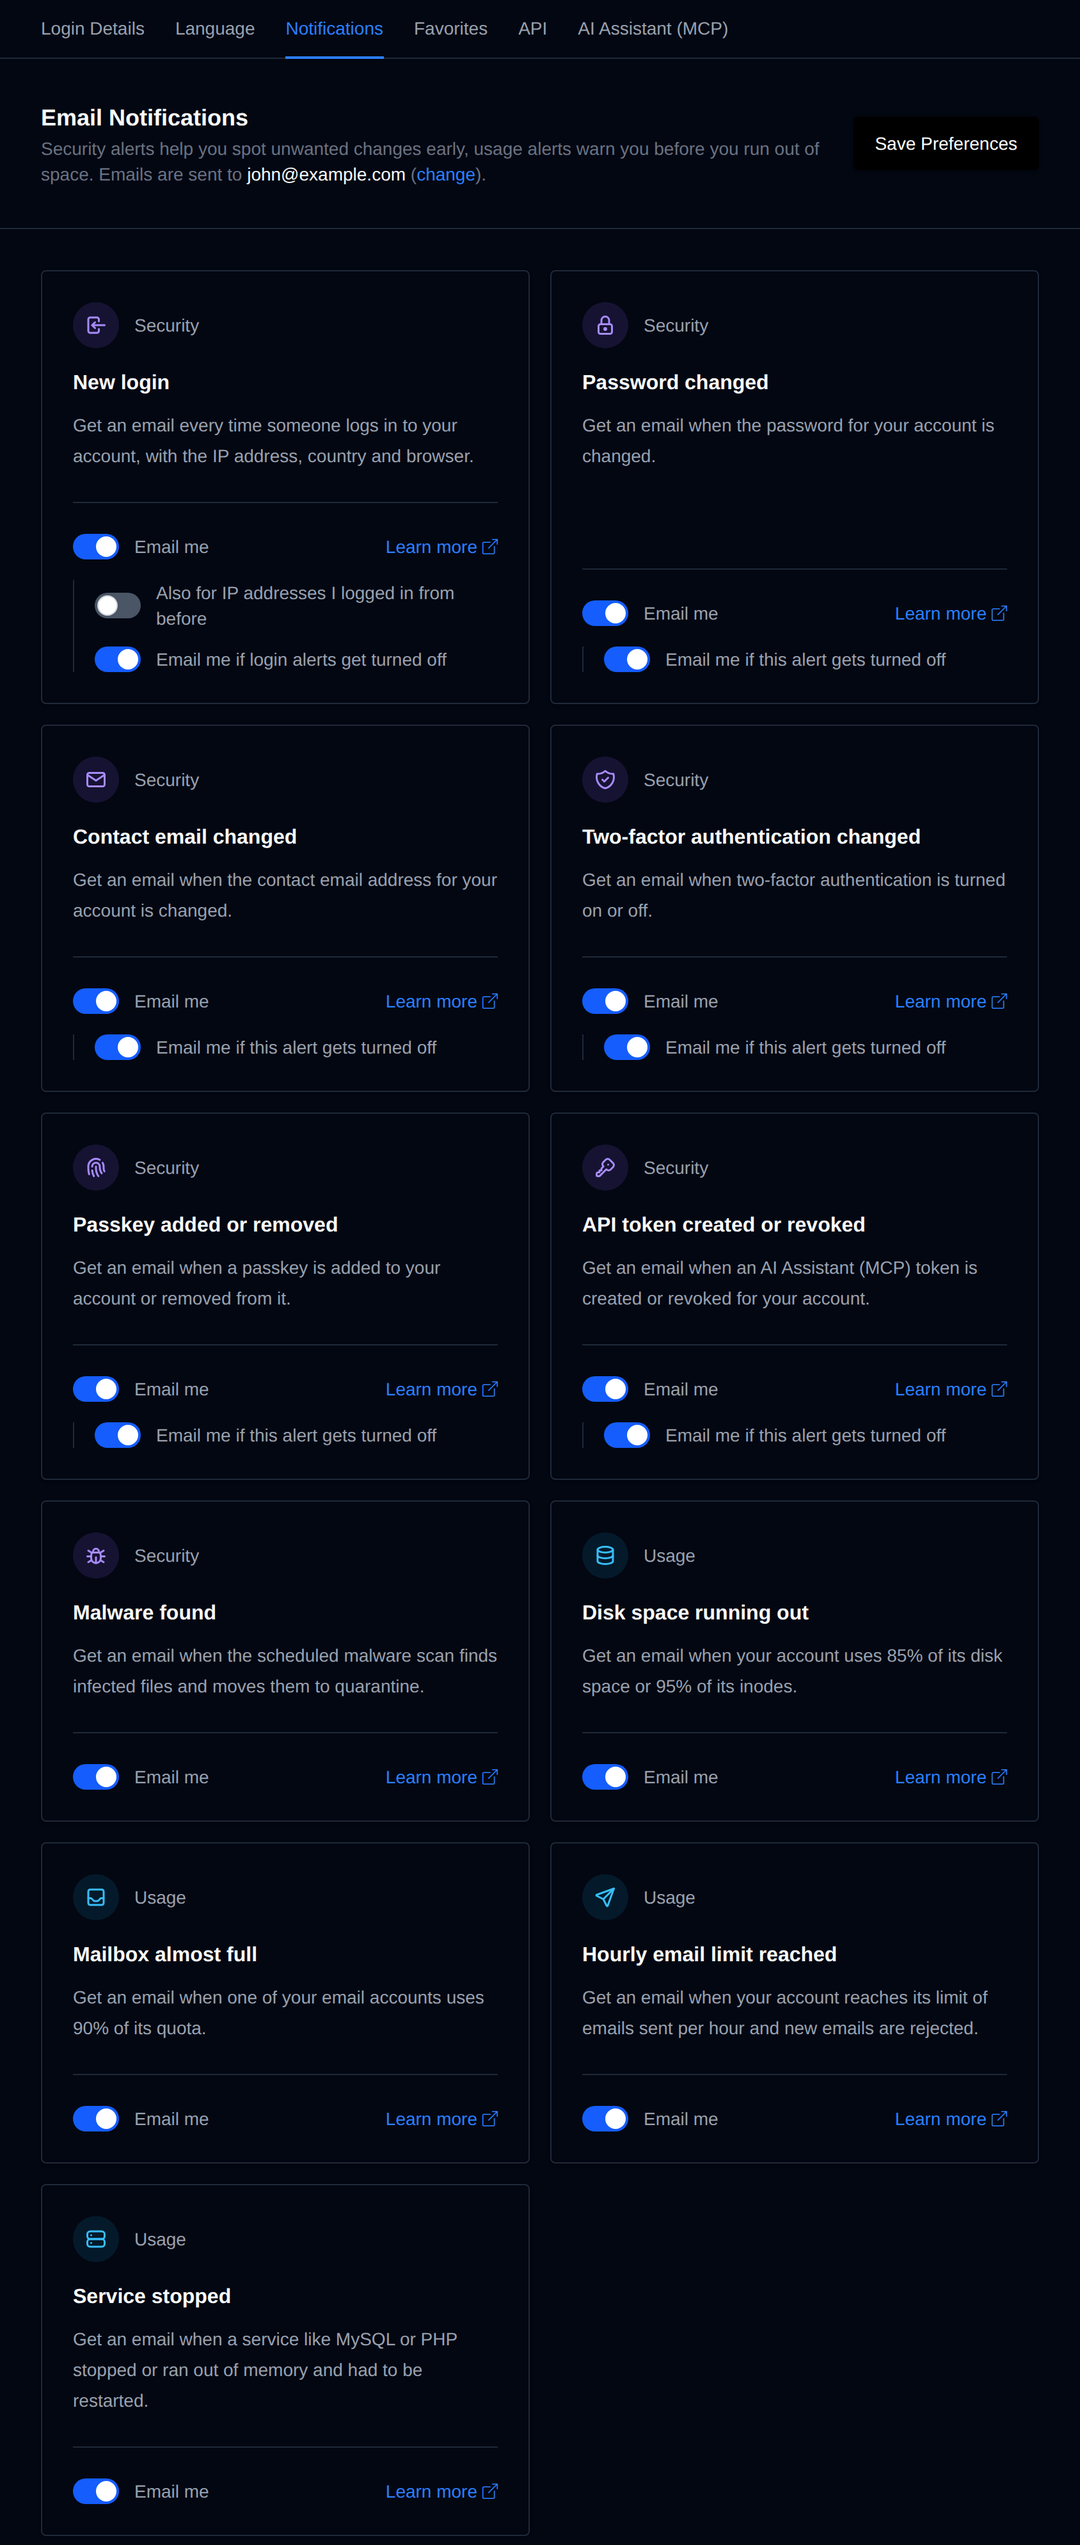
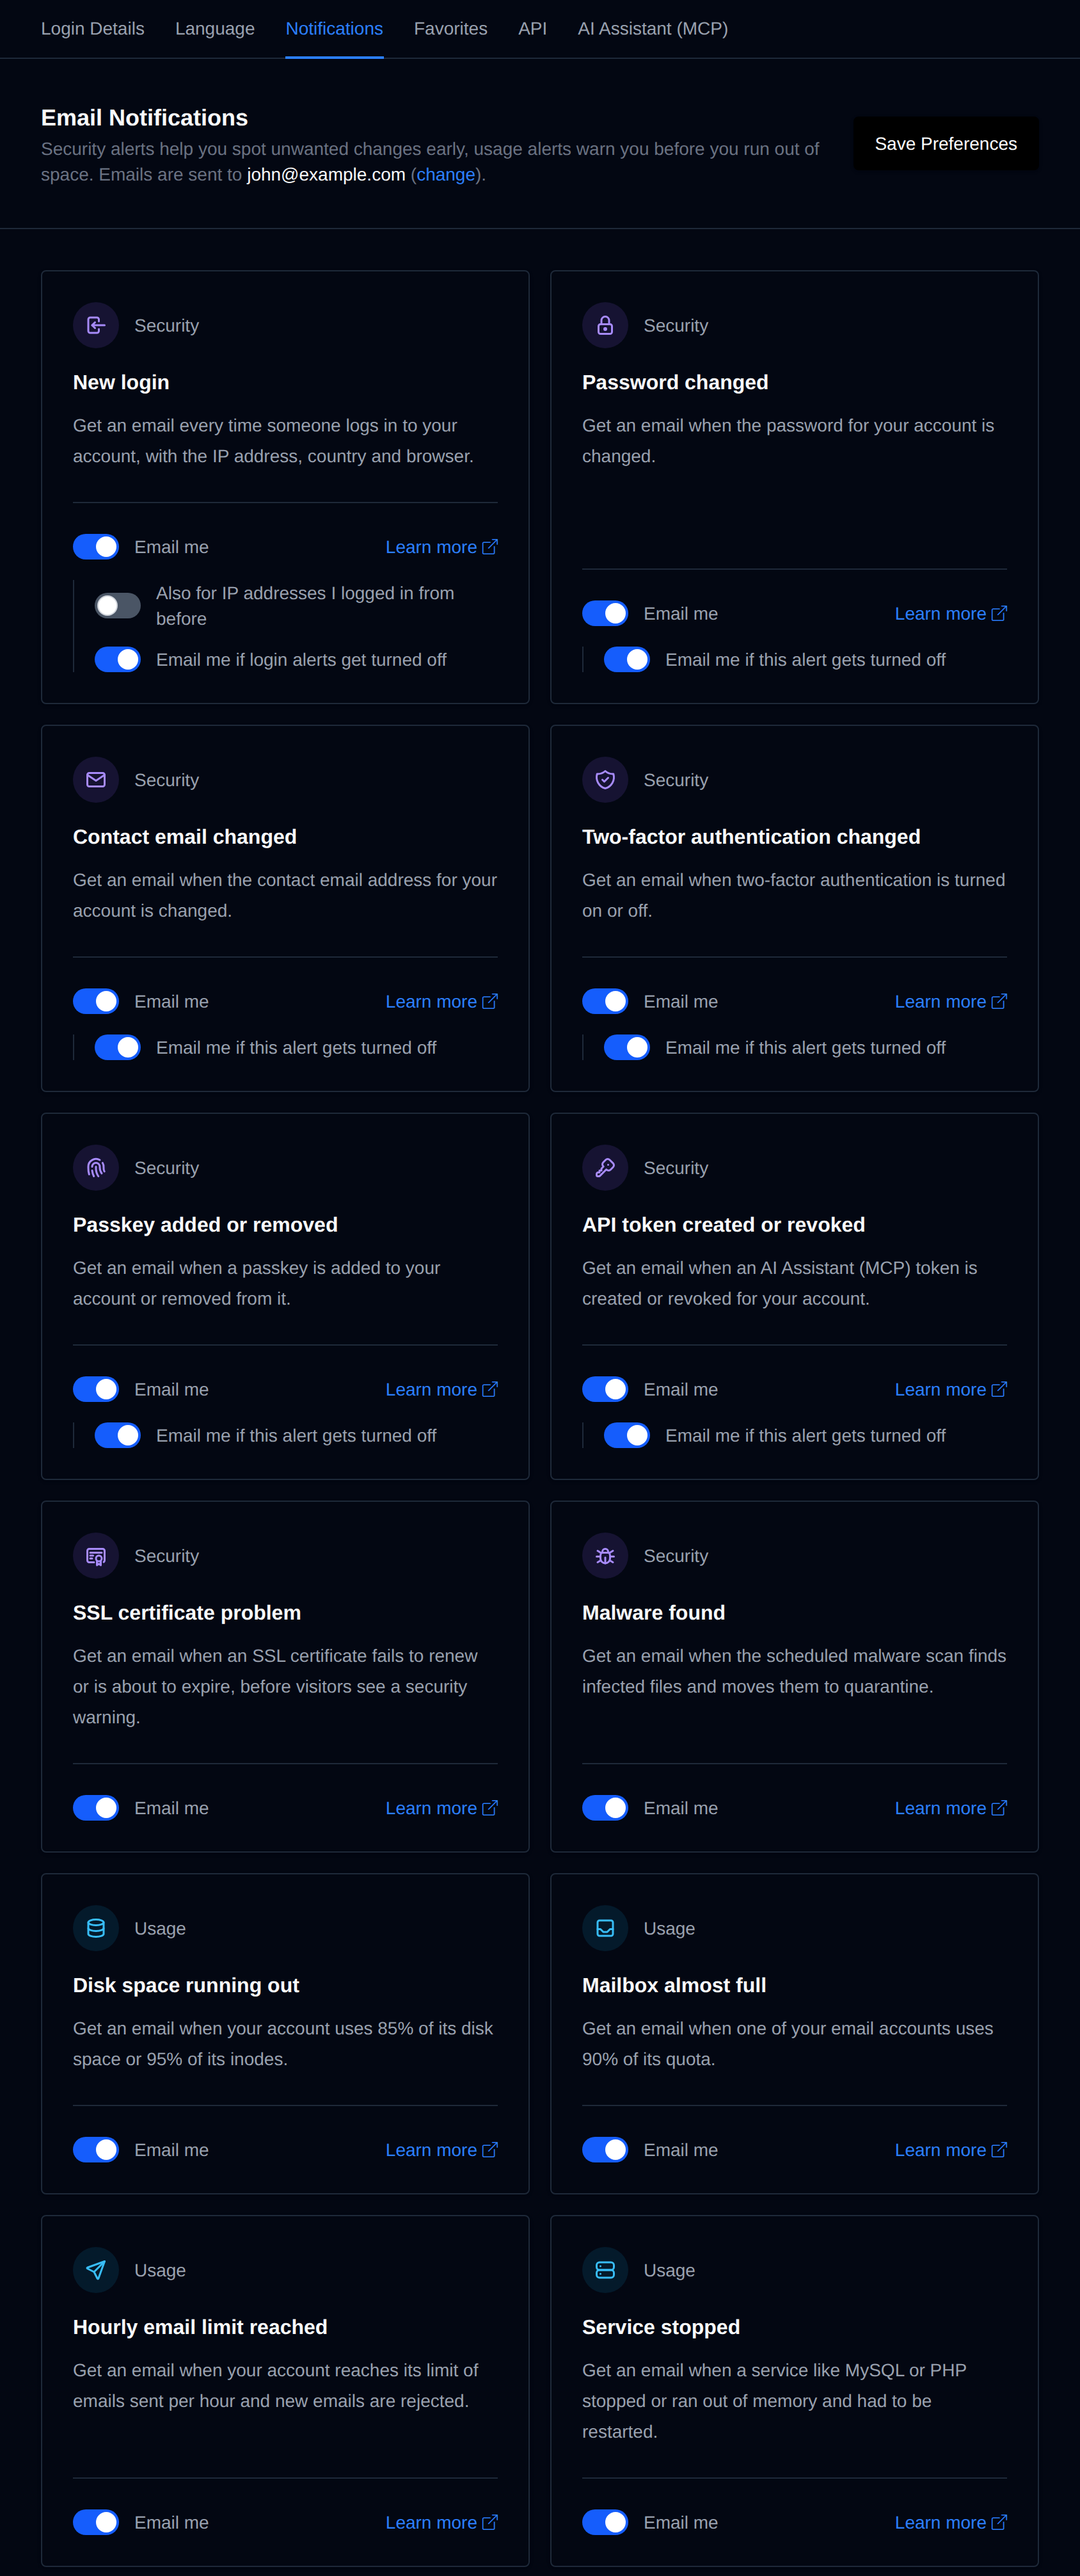
autoscale limits on install and notify_ssl_expiry wired

diff --git a/openpanel/internal/web/templates/user/notifications.html b/openpanel/internal/web/templates/user/notifications.html
@@ -23,6 +23,8 @@
 <svg xmlns="http://www.w3.org/2000/svg" width="18" height="18" viewBox="0 0 24 24" fill="none" stroke="currentColor" stroke-width="2" stroke-linecap="round" stroke-linejoin="round" aria-hidden="true"><path d="M10 14l11 -11"/><path d="M21 3l-6.5 18a.55 .55 0 0 1 -1 0l-3.5 -7l-7 -3.5a.55 .55 0 0 1 0 -1l18 -6.5"/></svg>
 {{- else if eq .Key "notify_service_failed"}}
 <svg xmlns="http://www.w3.org/2000/svg" width="18" height="18" viewBox="0 0 24 24" fill="none" stroke="currentColor" stroke-width="2" stroke-linecap="round" stroke-linejoin="round" aria-hidden="true"><path d="M3 7a3 3 0 0 1 3 -3h12a3 3 0 0 1 3 3v2a3 3 0 0 1 -3 3h-12a3 3 0 0 1 -3 -3z"/><path d="M3 15a3 3 0 0 1 3 -3h12a3 3 0 0 1 3 3v2a3 3 0 0 1 -3 3h-12a3 3 0 0 1 -3 -3z"/><path d="M7 8l0 .01"/><path d="M7 16l0 .01"/></svg>
+{{- else if eq .Key "notify_ssl_expiry"}}
+<svg xmlns="http://www.w3.org/2000/svg" width="18" height="18" viewBox="0 0 24 24" fill="none" stroke="currentColor" stroke-width="2" stroke-linecap="round" stroke-linejoin="round" aria-hidden="true"><path d="M15 15m-3 0a3 3 0 1 0 6 0a3 3 0 1 0 -6 0"/><path d="M13 17.5v4.5l2 -1.5l2 1.5v-4.5"/><path d="M10 19h-5a2 2 0 0 1 -2 -2v-10c0 -1.1 .9 -2 2 -2h14a2 2 0 0 1 2 2v10a2 2 0 0 1 -1 1.73"/><path d="M6 9l12 0"/><path d="M6 12l3 0"/><path d="M6 15l2 0"/></svg>
 {{- end}}
 {{end}}
 

diff --git a/website/scripts/panel-screenshots/emails/render.go b/website/scripts/panel-screenshots/emails/render.go
@@ -88,6 +88,9 @@ func emails() []email {
 			tips:        "To free up space, delete old emails and empty the Trash and Spam folders in webmail, or raise the mailbox quota on the Email Accounts page in OpenPanel.",
 			usage:       []usage{{Title: "info@example.com", Used: "920M", Total: "1G", Percent: 92, Limit: 90}, {Title: "sales@example.com", Used: "2G", Total: "2G", Percent: 100, Limit: 90}},
 			upgradePlan: "Business", upgradeText: "The Business plan lets you set mailboxes up to 5 GB instead of 2 GB. After upgrading, raise the quota on the Email Accounts page."},
+		{name: "ssl", subject: "SSL certificate problem on account john",
+			body: "These SSL certificates on account john need attention, without a valid certificate visitors see a security warning instead of the website:\n\n- blog.example.com: the AutoSSL certificate expires on 2026-10-02 06:00 UTC (6 day(s) left). It should have been renewed automatically, so renewal is failing. Last error: HTTP 403 urn:ietf:params:acme:error:unauthorized - Invalid response from http://blog.example.com/.well-known/acme-challenge/x: 404\n- shop.example.com: the custom certificate expires on 2026-09-26 12:00 UTC (less than a day left).\n\nChecked: 2026-09-25 06:15:02 UTC",
+			tips: "For AutoSSL, make sure the domain's A and AAAA records point to this server, no CAA record blocks Let's Encrypt, and no proxy or firewall blocks /.well-known/acme-challenge/. For a custom certificate, upload a renewed one on the Domains > SSL Certificates page in OpenPanel, or switch the domain to AutoSSL to get free certificates that renew on their own."},
 		{name: "malware", subject: "Malware found on account john",
 			body: "The scheduled malware scan found 2 infected file(s) on account john and moved them to quarantine, so they can't run or be downloaded anymore.\n\nQuarantined files:\n- /var/www/html/blog.example.com/wp-content/uploads/2026/09/cache.php (Php.Webshell.Generic)\n- /var/www/html/blog.example.com/wp-includes/js/jquery/ui/core.min.js (Js.Trojan.Redirect)\n\nScanned: 2026-09-27 00:12:40 UTC",
 			tips: "Review the files on the Malware Scanner > Quarantine page in OpenPanel: delete them, or restore a file if it's a false positive. Malware usually gets in through outdated plugins, themes or stolen passwords, so update your websites and change your FTP and admin passwords."},

diff --git a/openpanel/internal/modules/account/notifications.go b/openpanel/internal/modules/account/notifications.go
@@ -43,6 +43,7 @@ var notificationDefs = []notificationDef{
 	{Key: "notify_passkey_change_notification_disabled", Default: "1", Title: "Email me if this alert gets turned off", Parent: "notify_passkey_change"},
 	{Key: "notify_api_token_change", Default: "1", Title: "API token created or revoked", Description: "Get an email when an AI Assistant (MCP) token is created or revoked for your account.", Group: "Security", Anchor: "api-token-created-or-revoked"},
 	{Key: "notify_api_token_change_notification_disabled", Default: "1", Title: "Email me if this alert gets turned off", Parent: "notify_api_token_change"},
+	{Key: "notify_ssl_expiry", Default: "1", Title: "SSL certificate problem", Description: "Get an email when an SSL certificate fails to renew or is about to expire, before visitors see a security warning.", Group: "Security", Anchor: "ssl-certificate-problem"},
 	{Key: "notify_malware_found", Default: "1", Title: "Malware found", Description: "Get an email when the scheduled malware scan finds infected files and moves them to quarantine.", Group: "Security", Anchor: "malware-found"},
 	{Key: "notify_disk_limit", Default: "1", Title: "Disk space running out", Description: "Get an email when your account uses 85% of its disk space or 95% of its inodes.", Group: "Usage", Anchor: "disk-space-running-out"},
 	{Key: "notify_email_quota_limit", Default: "1", Title: "Mailbox almost full", Description: "Get an email when one of your email accounts uses 90% of its quota.", Group: "Usage", Anchor: "mailbox-almost-full"},

diff --git a/openpanel/internal/modules/account/notifications_test.go b/openpanel/internal/modules/account/notifications_test.go
@@ -5,8 +5,8 @@ import "testing"
 func TestBuildNotificationCards(t *testing.T) {
 	prefs := []NotificationPref{{Key: "notify_account_login", Value: "1"}, {Key: "notify_account_login_for_known_netblock", Value: "0"}}
 	cards := buildNotificationCards(prefs)
-	if len(cards) != 11 {
-		t.Fatalf("got %d cards, want 11", len(cards))
+	if len(cards) != 12 {
+		t.Fatalf("got %d cards, want 12", len(cards))
 	}
 	if !cards[0].On || len(cards[0].Subs) != 2 || cards[0].Subs[0].On {
 		t.Errorf("login card wrong: %+v", cards[0])
@@ -17,7 +17,7 @@ func TestBuildNotificationCards(t *testing.T) {
 }
 
 func TestNotificationDefault(t *testing.T) {
-	cases := map[string]int{"notify_account_login": 1, "notify_account_login_for_known_netblock": 0, "notify_username_change": 1, "notify_ssl_expiry": 0}
+	cases := map[string]int{"notify_account_login": 1, "notify_account_login_for_known_netblock": 0, "notify_username_change": 1, "notify_autossl_expiry": 0}
 	for key, want := range cases {
 		if got := notificationDefault(key); got != want {
 			t.Errorf("%s: got %d want %d", key, got, want)

diff --git a/website/docs/panel/account/notifications.md b/website/docs/panel/account/notifications.md
@@ -19,7 +19,7 @@ Changes made through the [OpenPanel API](/docs/panel/api/) do send the same emai
 
 ## Security alerts
 
-Every security email shows when the change was made, the IP address, the country with its flag, the browser and operating system, and what to do if it wasn't you.
+Emails about changes to the account (logins, password, email address, 2FA, passkeys and API tokens) show when the change was made, the IP address, the country with its flag, the browser and operating system, and what to do if it wasn't you.
 
 ### New login
 
@@ -94,6 +94,19 @@ Sends an email when a token for the [AI Assistant (MCP)](/docs/panel/account/mcp
 
 ![New API token email with the token name Claude Desktop, read-only access that expires in 30 days, the time, IP address, country and browser](/img/openpanel-screenshots/account/notifications-email-api-token.png)
 
+### SSL certificate problem
+
+Checks the SSL certificate of every domain that points to this server once a day, and sends an email when:
+- an AutoSSL certificate has 7 days or less left. AutoSSL certificates are renewed about 30 days before they expire, so this means renewal is failing. The email includes the last error from the web server, for example a DNS record pointing elsewhere.
+- any certificate, AutoSSL or custom, has 1 day or less left.
+
+Each alert is sent once per certificate, and all affected domains of the account are listed in one email. Domains that don't point to this server are skipped.
+
+![SSL certificate problem card with the Email me switch and a Learn more link](/img/openpanel-screenshots/account/notifications-ssl.png#gh-light-mode-only)
+![SSL certificate problem card with the Email me switch and a Learn more link](/img/openpanel-screenshots/account/notifications-ssl_dark.png#gh-dark-mode-only)
+
+![SSL certificate problem email listing an AutoSSL certificate that fails to renew with the error, and a custom certificate that expires in less than a day](/img/openpanel-screenshots/account/notifications-email-ssl.png)
+
 ### Malware found
 
 Sends an email when the scheduled malware scan finds infected files and moves them to quarantine. The email lists up to 20 files with the malware signature found in each, and points to the **Malware Scanner > Quarantine** page to delete or restore them.
@@ -107,7 +120,7 @@ Scans you start yourself from the Malware Scanner page don't send an email, sinc
 
 ### Email me if this alert gets turned off
 
-Every security alert except **Malware found** has this option, and it's on by default. When it's on and someone turns the alert itself off, an email is sent listing the alerts that were turned off. This way nobody can quietly turn off your login or password alerts before doing something with your account.
+Every security alert except **SSL certificate problem** and **Malware found** has this option, and it's on by default. When it's on and someone turns the alert itself off, an email is sent listing the alerts that were turned off. This way nobody can quietly turn off your login or password alerts before doing something with your account.
 
 To really stop an alert, turn off this option first, save, and then turn off the alert.
 

diff --git a/website/docs/changelog/2.0.12.md b/website/docs/changelog/2.0.12.md
@@ -20,7 +20,8 @@ Not yet released.
 - `opencli email-usage <USERNAME|--all>` refreshes the cached email accounts and quota usage file of a user or all users.
 - `opencli email-usage` emails users with `notify_email_quota_limit` enabled when an email account reaches 90% of its quota.
 - Security notification emails (login, password, email address, 2FA, passkey and preferences changes) now show the time, IP address, country with its flag, browser and operating system in a table, and what to do if it wasn't the user. Login emails also say how the user logged in, email address changes show the old and new address, and preference changes list the alerts that were turned off.
-- New email notifications, each with its own switch on OpenPanel > Account > Notifications: **Passkey added or removed** (split from the 2FA alert, and removals are now reported too), **API token created or revoked** for AI Assistant (MCP) tokens, **Malware found** when the scheduled scan quarantines files, **Hourly email limit reached** and **Service stopped** when Sentinel had to restart a user's service or it ran out of memory. Existing users get the new options turned on when updating to 2.0.12.
+- New email notifications, each with its own switch on OpenPanel > Account > Notifications: **Passkey added or removed** (split from the 2FA alert, and removals are now reported too), **API token created or revoked** for AI Assistant (MCP) tokens, **Malware found** when the scheduled scan quarantines files, **Hourly email limit reached**, **SSL certificate problem** when an AutoSSL certificate fails to renew or any certificate is about to expire, and **Service stopped** when Sentinel had to restart a user's service or it ran out of memory. Existing users get the new options turned on when updating to 2.0.12.
+- `opencli domains-ssl --notify` emails users about AutoSSL certificates with 7 days or less left (renewal failing) and any certificate with 1 day or less left, once per certificate. It runs daily from cron.
 - `opencli email-ratelimit --notify` emails users whose account reached the hourly email limit, at most once a day. It runs every 30 minutes from cron.
 - Disk space and mailbox emails now show usage bars colored like Sentinel alerts (disk and inodes, or each full mailbox), the time of the check and tips on freeing up space. On Enterprise, when the plan's upsell plan raises the limit that is running out, they also include an *Upgrade* section with a button to Dashboard > Upgrade.
 

diff --git a/website/docs/articles/opencli/domains.md b/website/docs/articles/opencli/domains.md
@@ -367,6 +367,26 @@ Updated example.com to use AutoSSL.
 ```
 </details>
 
+Email users about SSL certificates that need attention:
+```bash
+opencli domains-ssl --notify
+```
+
+<details>
+  <summary>Example output</summary>
+
+```bash
+# opencli domains-ssl --notify
+stefan: notified about 2 certificate(s).
+```
+</details>
+
+It checks every domain that points to this server and emails its owner, if they have [SSL certificate problem](/docs/panel/account/notifications/#ssl-certificate-problem) turned on, when:
+- an AutoSSL certificate has 7 days or less left, which means renewal is failing, since certificates are renewed about 30 days before they expire. The email includes the last error from the Caddy logs.
+- any certificate, AutoSSL or custom, has 1 day or less left.
+
+Each alert is sent once per certificate. It runs daily from cron.
+
 ## Docroot
 
 View and change docroot for a domain.
